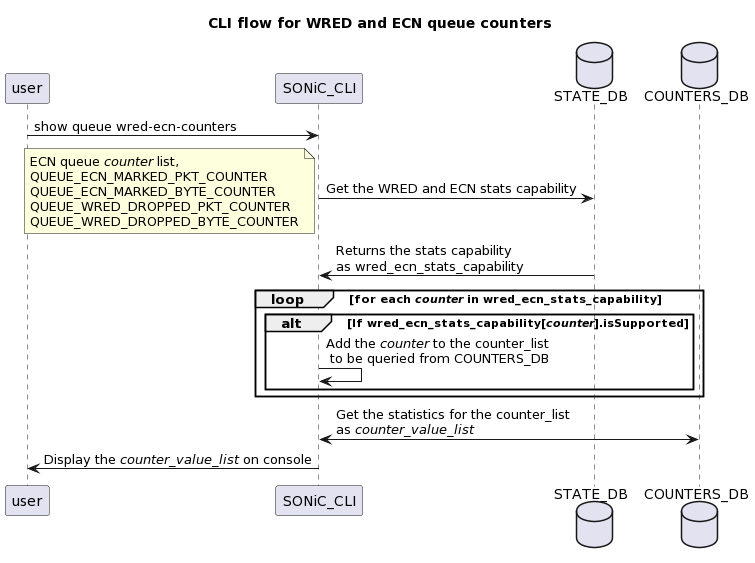
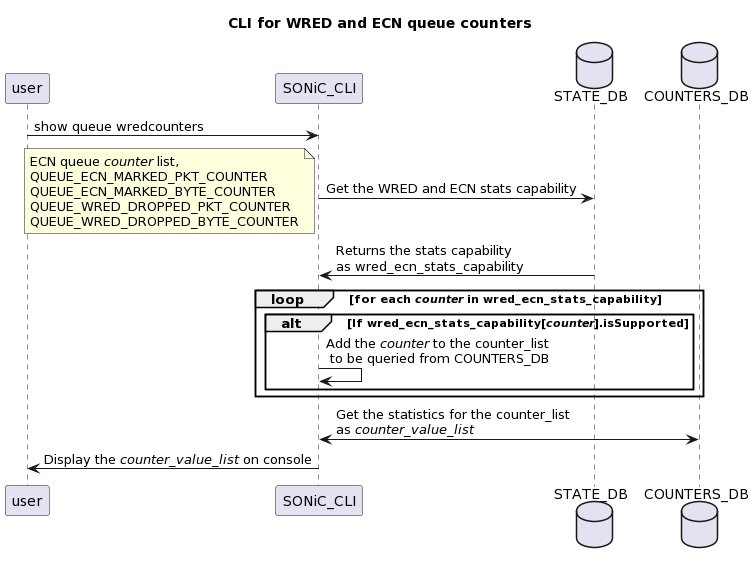
HLD updated

Changed region(s): [[0.2742, 0.0302, 0.7311, 0.0604], [0.1828, 0.2114, 0.3046, 0.2416]]

diff --git a/ECN_and_WRED_statistics_HLD.md b/ECN_and_WRED_statistics_HLD.md
@@ -1,8 +1,8 @@
-# ECN and WRED Statistics
+# WRED and ECN Statistics
 
 
 ## Table of Contents
-- [ECN and WRED Statistics](#ecn-and-wred-statistics)
+- [WRED and ECN Statistics](#wred-and-ecn-statistics)
   - [Table of Contents](#table-of-contents)
     - [Revision](#revision)
     - [Scope](#scope)
@@ -17,8 +17,9 @@
       - [Changes in COUNTERS_DB](#changes-in-counters_db)
       - [Changes in Orchagent](#changes-in-orchagent)
       - [CLI Changes](#cli-changes)
-        - [show queue counters on a ECN statistics supported platform](#show-queue-counters-on-a-ecn-statistics-supported-platform)
-        - [show queue counters on a platform which does not support ECN statistics](#show-queue-counters-on-a-platform-which-does-not-support-ecn-statistics)
+        - [CLI output on a WRED and ECN queue statistics supported platform](#cli-output-on-a-wred-and-ECN-queue-statistics-supported-platform)
+        - [CLI output on a platform which supports WRED drop statistics and does not support ECN statistics](#cli-output-on-a-platform-which-supports-wred-drop-statistics-and-does-not-support-ecn-statistics)
+        - [CLI output on a platform which supports ECN statistics and does not support WRED statistics](#cli-output-on-a-platform-which-supports-ecn-statistics-and-does-not-support-wred-statistics)
         - [show interface counters on a WRED drop statistics supported platform](#show-interface-counters-on-a-wred-drop-statistics-supported-platform)
         - [show interface counters on a platform which does not support WRED drop statistics](#show-interface-counters-on-a-platform-which-does-not-support-wred-drop-statistics)
     - [SAI API](#sai-api)
@@ -37,7 +38,7 @@
 
 ### Scope
 
-This document provides the high level design for ECN and WRED Statistics in SONiC
+This document provides the high level design for WRED and ECN Statistics in SONiC
 
 ### Abbreviations
 
@@ -57,7 +58,7 @@ The main goal of this feature is to provide better WRED impact visibility in SON
 
 The other goal of this feature is to display these statistics only if the underlying platform supports it. [CLI changes](#cli-changes) section explains this in detail. Every platform may have unique statistics capabilities, and they change over time, and so it is important for this feature to be capability based.
 
-We will accomplish both the goals by adding statistics support for per-queue WRED dropped packets/bytes, per-queue ECN marked packets/bytes and per-port WRED dropped packets. Existing “show interface counters detailed” CLI  will be enhanced for displaying the Port level WRED statistics. New CLI will be introduced for queue level WRED and ECN statistics.
+We will accomplish both the goals by adding statistics support for per-queue WRED dropped packets/bytes, per-queue ECN marked packets/bytes and per-port WRED dropped packets. Existing “show interface counters detailed” CLI  will be enhanced for displaying the port level WRED statistics. New CLI will be introduced for queue level WRED and ECN statistics.
 
 In this document, we will be using the term "WRED and ECN statistics" for combined statistics of per-queue WRED dropped packets/bytes, per-queue ECN marked packets/bytes and per-port WRED dropped packets. 
 
@@ -80,7 +81,7 @@ There are no architectural design changes as part of this design.
 
 This section covers the high level design of the WRED and ECN statistics feature. The following step-by-step short description provides an overview of the operations involved in this feature,
 
-1. Orchagent fetches the platform statistics capability for ECN and WRED counters from SAI
+1. Orchagent fetches the platform statistics capability for WRED and ECN Statistics from SAI
 2. The stats capability will be updated to STATE_DB by orchagent
 3. Based on the stats capability and CONFIG_DB status of respective statistics, Orchagent sets stat-ids to FLEX_COUNTERS_DB
     * In case, the platform is capable of WRED and ECN statistics,
@@ -150,7 +151,7 @@ The default capability will be isSupported=false for all the above statistics.
 
 #### Changes in FLEX_COUNTER_DB
 
-The flexcounter groups need to be created for polling the required statistics. Two new flex counter groups will be introduced for this feature. These are created during orchagent startup. 
+The flexcounter groups need to be created for polling the required statistics. Two new flex counter groups will be introduced for this feature. These are created during Orchagent startup. 
 
 On supported platforms,
 * The WRED and ECN queue counters will use the new flexcounter group WRED_ECN_QUEUE for following list of counters,
@@ -200,20 +201,21 @@ If the user enables the WRED and ECN statistics on a platform in which all of th
 
 ### CLI Changes
 
-There are three new CLIs are introduced for this feature. And also the output of existing "show interface counters detailed" CLI would change. The details are illustrated below in this section. The CLI will display the WRED and ECN statistics only if the capability is supported by the platform. It gets the capability from STATE_DB and queries only the supported statistics from COUNTERS_DB.
+There are few new CLIs and new CLI tokens are introduced for this feature. And also the output of existing "show interface counters detailed" CLI would change. The details are illustrated below in this section. The show CLIs will display the WRED and ECN statistics only if the capability is supported by the platform. It gets the capability from STATE_DB and queries only the supported statistics from COUNTERS_DB.
 
-* New CLI is introduced for enabling and disabling the WRED and ECN statistics globally
-    * Enable/Disable the Statistics : ```config wred-ecn-counters <queue | interface> <enable | disable>```
-    * Following are the usage of the above CLI command,
-        * To enable the WRED and ECN queue counters: ```config wred-ecn-counters queue enable```
-        * To disable the WRED and ECN queue counters: ```config wred-ecn-counters queue disable```
-        * To enable the WRED and ECN port counters: ```config wred-ecn-counters interface enable```
-        * To disable the WRED and ECN port counters: ```config wred-ecn-counters interface disable```
+* New CLI tokens are introduced under the existing ```counterpoll``` CLI for enabling and disabling the WRED and ECN statistics polling globally,
+    * Enable/Disable the queue level counters : ```counterpoll wred-queue <enable | disable>```
+    * Enable/Disable the port level counters : ```counterpoll wred-port <enable | disable>```
+* New CLI tokens are introduced under the existing ```counterpoll``` CLI for setting the polling interval of the statistics, 
+    * Set polling interval for queue level counters: ```counterpoll wred-queue interval <value>```
+    * Set polling interval for port level counters: ```counterpoll wred-port  interval <value>```
 
+* Existing ```counterpoll``` CLI  can be used to display counter status and polling interval,
+    * Display the status of the counters : ```counterpoll show```
+        
 * Following new CLIs are introduced for Per-queue WRED and ECN Statistics
-    * Statistics are cleared on user request : ```sonic-clear queue wred-ecn-counters```
-    * Display the statistics on the console      : ```show queue wred-ecn-counters [interface-name]```
-
+    * Statistics are cleared on user request : ```sonic-clear queue wredcounters```
+    * Display the statistics on the console      : ```show queue wredcounters [interface-name]```
 
 
 * Following existing CLIs are used for Per-port WRED statistics
@@ -223,7 +225,7 @@ There are three new CLIs are introduced for this feature. And also the output of
 #### CLI output on a WRED and ECN queue statistics supported platform
 
 ```
-sonic-dut:~# show queue wred-ecn-counters Ethernet16
+sonic-dut:~# show queue wredcounters Ethernet16
       Port    TxQ    WredDrp/pkts    WredDrp/bytes  EcnMarked/pkts EcnMarked/bytes
 ----------  -----  --------------  ---------------  -------------- ---------------
 Ethernet16    UC0               0                0               0               0   
@@ -237,7 +239,7 @@ Ethernet16    UC7               0                0               0              
 ```
 #### CLI output on a platform which supports WRED drop statistics and does not support ECN statistics
 ```
-sonic-dut:~# show queue wred-ecn-counters Ethernet16
+sonic-dut:~# show queue wredcounters Ethernet16
       Port    TxQ    WredDrp/pkts    WredDrp/bytes
 ----------  -----  --------------  ---------------
 Ethernet16    UC0               0                0
@@ -252,7 +254,7 @@ Ethernet16    UC7               0                0
 ```
 #### CLI output on a platform which supports ECN statistics and does not support WRED statistics
 ```
-sonic-dut:~# show queue wred-ecn-counters Ethernet16
+sonic-dut:~# show queue wredcounters Ethernet16
       Port    TxQ  EcnMarked/pkts  EcnMarked/bytes
 ----------  -----  --------------  ---------------
 Ethernet16    UC0               0                0
@@ -355,7 +357,7 @@ Broadcast Packets Transmitted.................. 32,892
 Time Since Counters Last Cleared............... None
 ```
 
-The "show queue wred-ecn-counters" fetches the statistics from COUNTERS_DB and will display to the console based on the capability of the platform. The below sequence diagram logically explains the "show queue wred-ecn-counters" interaction among CLI, STATE_DB and COUNTERS_DB for ECN and WRED statistics on supported platform,
+The "show queue wredcounters" fetches the statistics from COUNTERS_DB and will display to the console based on the capability of the platform. The below sequence diagram logically explains the "show queue wredcounters" interaction among CLI, STATE_DB and COUNTERS_DB for ECN and WRED statistics on supported platform,
 <p align=center>
 <img src="ecn-wred-stats-images/queue_counter_cli_flow.png" alt="queue CLI interactions">
 </p>
@@ -387,7 +389,7 @@ Following SAI statistics are used in this feature,
 
 ### Configuration and management
 
-The config CLI command ```"config wred-ecn-counters <queue | interface> <enable | disable>"``` will enable and disable the WRED and ECN statistics by interacting with the FLEX_COUNTER_TABLE table of CONFIG_DB.
+The config CLI commands ```"counterpoll wred-queue <enable | disable>"``` and ```"counterpoll wred-port <enable | disable>"``` will enable and disable the WRED and ECN statistics by interacting with the FLEX_COUNTER_TABLE table of CONFIG_DB.
 
 ### Manifest (if the feature is an Application Extension)
 Not applicable?
